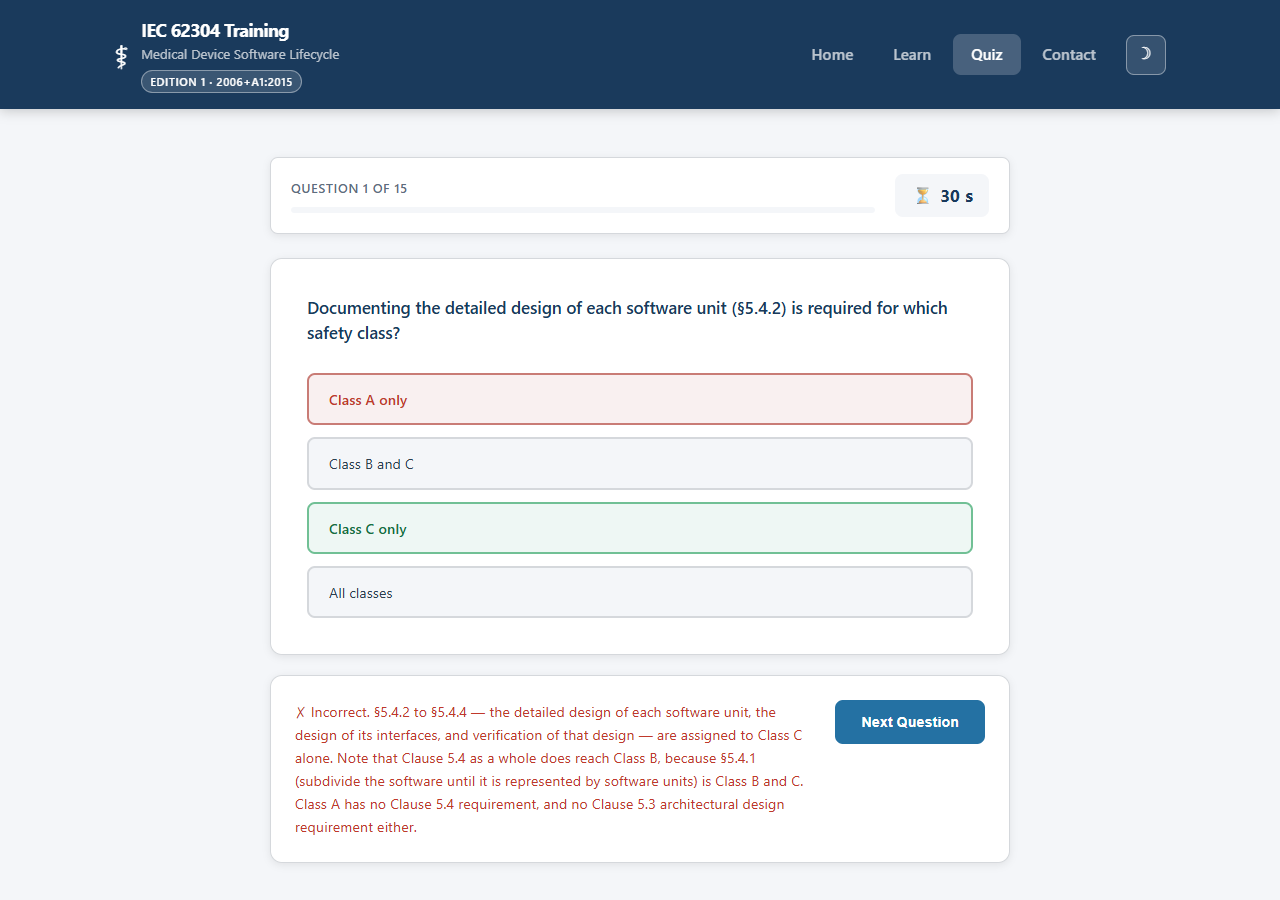
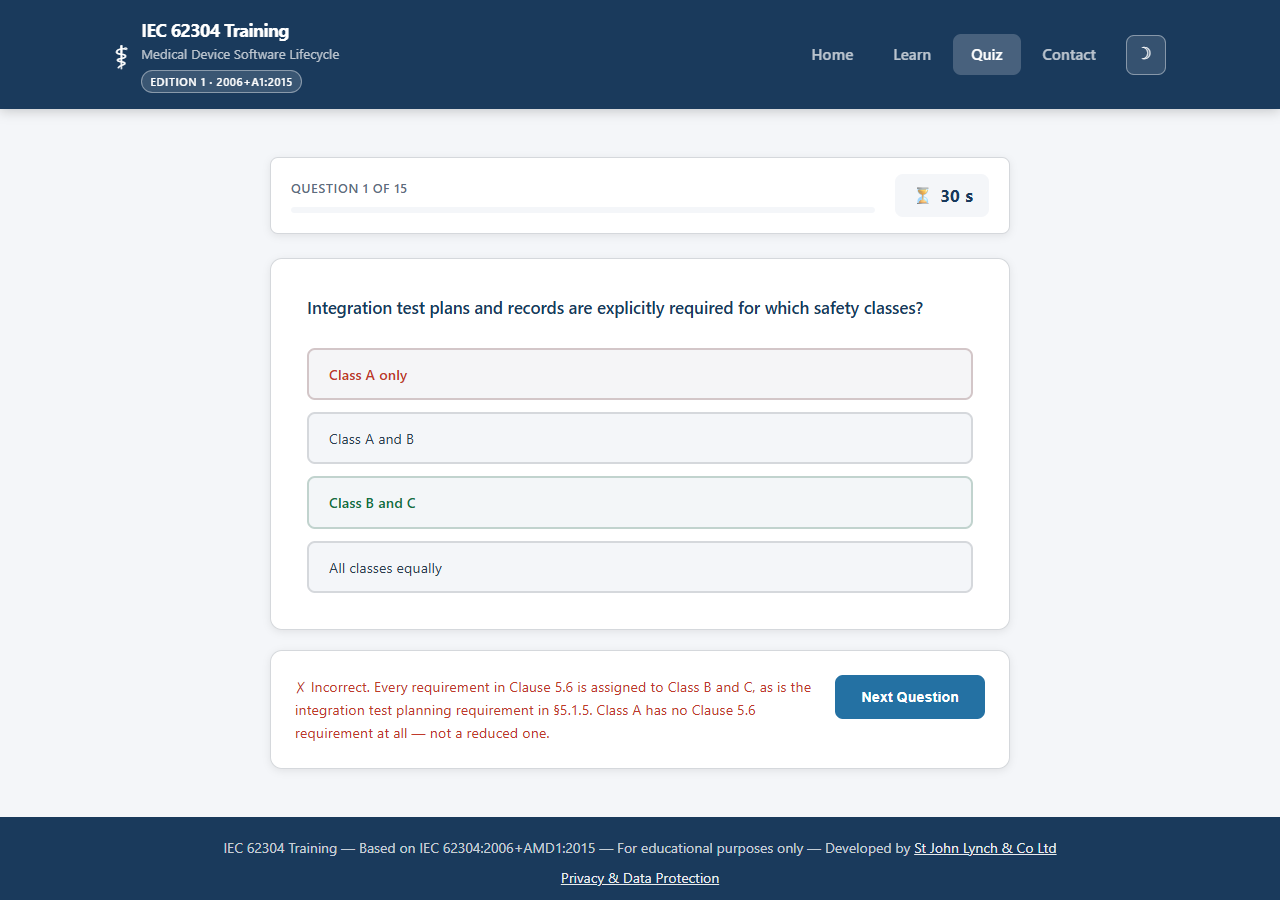
Fixed the redesign for the promo bar instead of two sticky side rails.

Changed region(s): [[0.0, 0.7467, 1.0, 1.0], [0.25, 0.3111, 0.75, 0.7156]]

diff --git a/README.md b/README.md
@@ -15,19 +15,18 @@ This course is designed for software developers, quality engineers, and regulato
 **Edition 1 — IEC 62304:2006 together with Amendment 1:2015**, the version
 currently in force. The consolidated text carries the designation Edition 1.1.
 
-**Edition 2 is under development and is not covered.** Because "IEC 62304" alone
-is now ambiguous, the version is stated in three places: a chip in the site
-header on every page, an explicit statement in the home page hero, and the
-Edition 2 notice on the Learn page, which summarises the proposed changes and
-says plainly that they are not yet confirmed. The `version` test group asserts
-all of this, so it cannot quietly disappear in a redesign.
+**Edition 2 is under development and is not covered.** This site will be updated once the new edition 2 is released.  A notification and link to the IEC project for development of this standard is offered as a pop-up card on the Learn page.
 
 ## Features
 
-- **Home page** — Introduction to IEC 62304 with key statistics
-- **Learn page** — 13 expandable topic cards covering Clauses 4–9, loaded from JSON; generates the deliverables required at the selected safety class, on screen, as CSV or printed; toggle between Introductory and Advanced depth; filter by safety class (A/B/C) with a notice distinguishing *applies in full*, *applies in part* and *does not apply*, naming the specific sub-clauses, plus a standing ISO 14971 caution; each card carries a per-sub-clause applicability table; each card also links to a worked example of the document that process area would produce — previewable online or downloadable as a PDF, clearly marked as a training example and not an actual regulatory deliverable (see [docs/](docs/README.md)); study progress tracker, which requires the example document to have been opened at least once before a topic can be marked studied; on screens wide enough to leave real empty space either side of the content, sticky promotional cards fill it — hidden entirely below that width, so no tested viewport is affected
+- **Home page** — Introduction to IEC 62304 ED1 with key statistics and information (e.g., what is IEC 62304)
+
+- **Learn page** — 13 expandable topic cards covering Clauses 4–9, loaded from JSON; generates the deliverables required at the selected safety class, on screen, as CSV or printed; toggle between Introductory and Advanced depth; filter by safety class (A/B/C) with a notice distinguishing *applies in full*, *applies in part* and *does not apply*, naming the specific sub-clauses, plus a standing ISO 14971 caution; each card carries a per-sub-clause applicability table; each card also links to a worked example of the document that process area would produce — previewable online or downloadable as a PDF, clearly marked as a training example and not an actual regulatory deliverable (see [docs/](docs/README.md)); study progress tracker, which requires the example document to have been opened at least once before a topic can be marked studied; a promotional strip beneath the topic cards credits St John Lynch & Co and AskRiskIE side by side in one banner, sized to match the page and visible at every viewport
+
 - **Quiz page** — two 15-question assessments (Introductory and Advanced), with only the set matching your chosen level downloaded; randomised order, 30-second timer per question, immediate feedback, and a pass/fail results screen; 80% pass mark earns a downloadable certificate that reflects the training level completed
+
 - **Contact page** — Feedback form with real-time client-side validation and asynchronous submission to a live Formspree endpoint (no page reload), including a request timeout and field-level server error reporting
+
 - **Privacy page** — Data protection notice covering what the contact form collects, the transfer to Formspree in the US, browser storage, and visitors' rights; linked from every footer and summarised beneath the Send button. Also carries a **content provenance** section: where the course content, the safety class mapping and the Edition 2 status each come from, a disclaimer of IEC affiliation, and confirmation that no request of yours reaches IEC
 
 ## Screenshots
